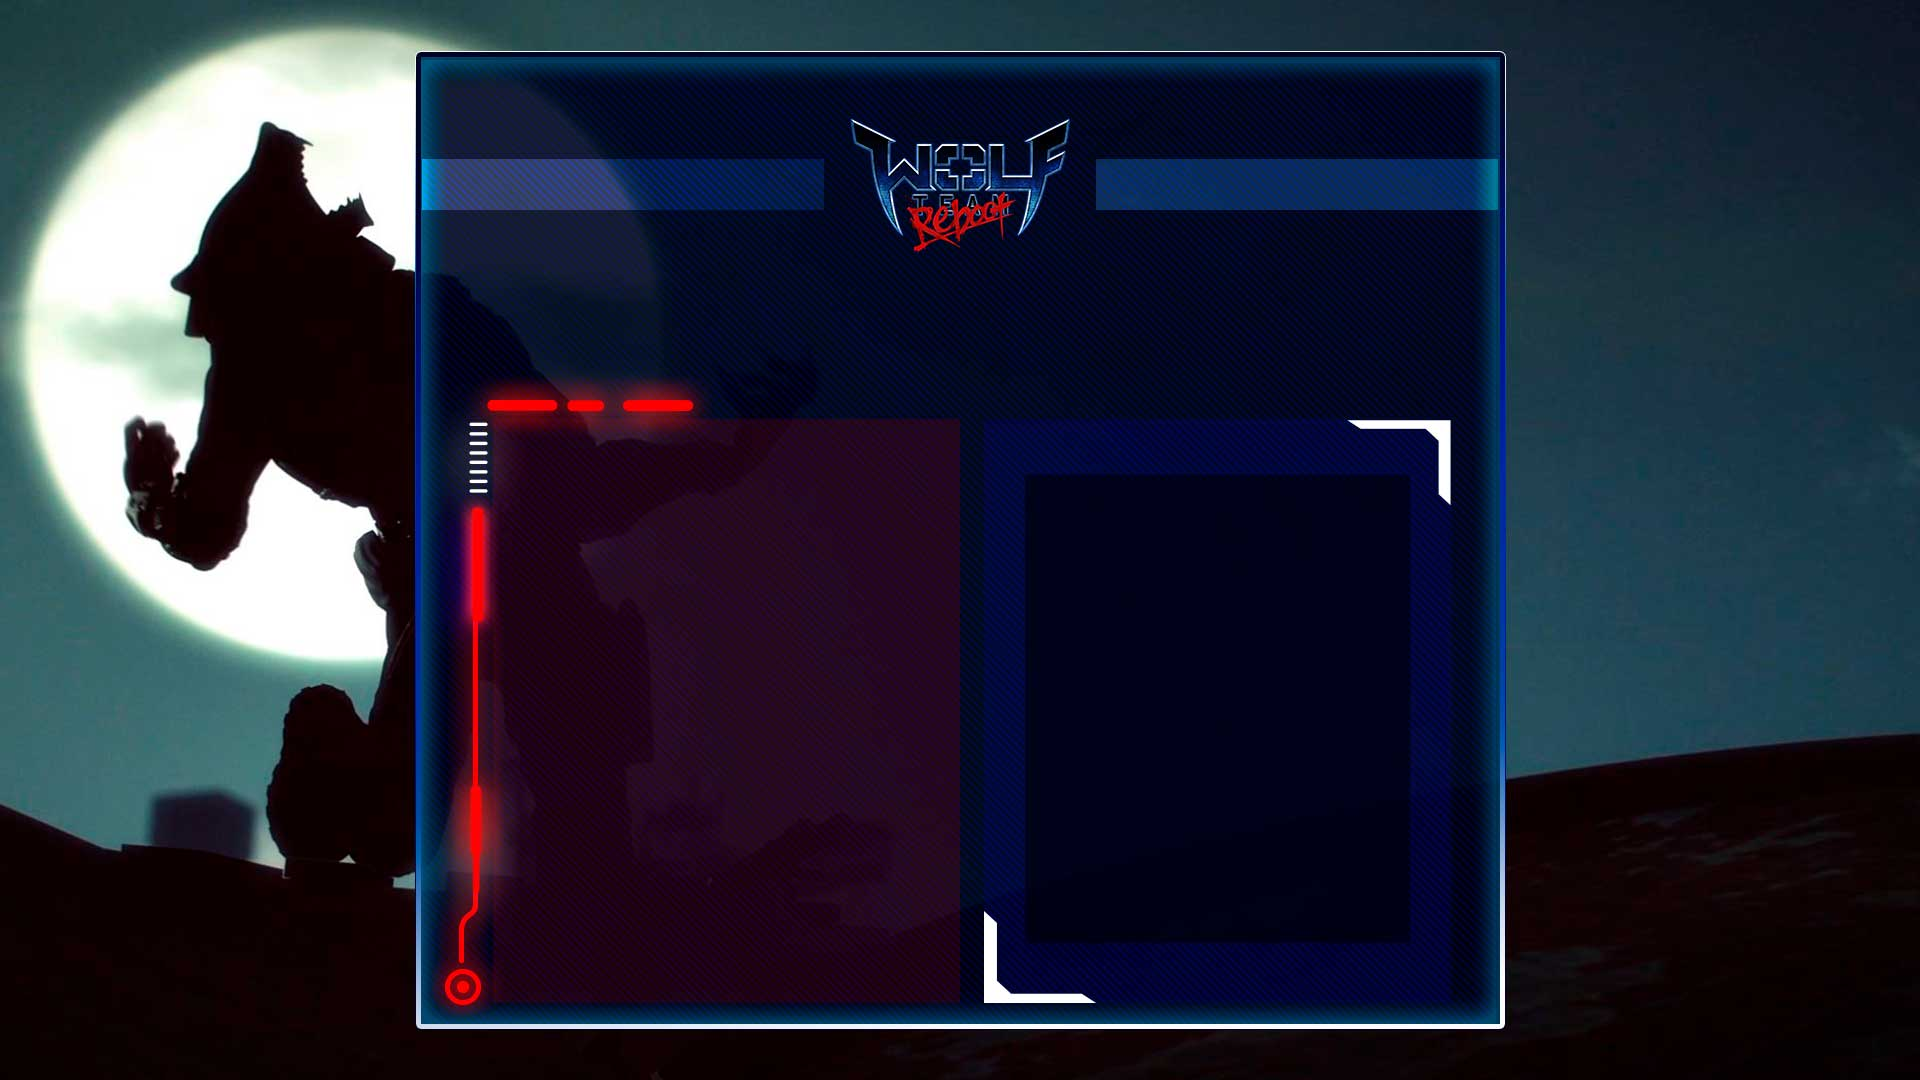
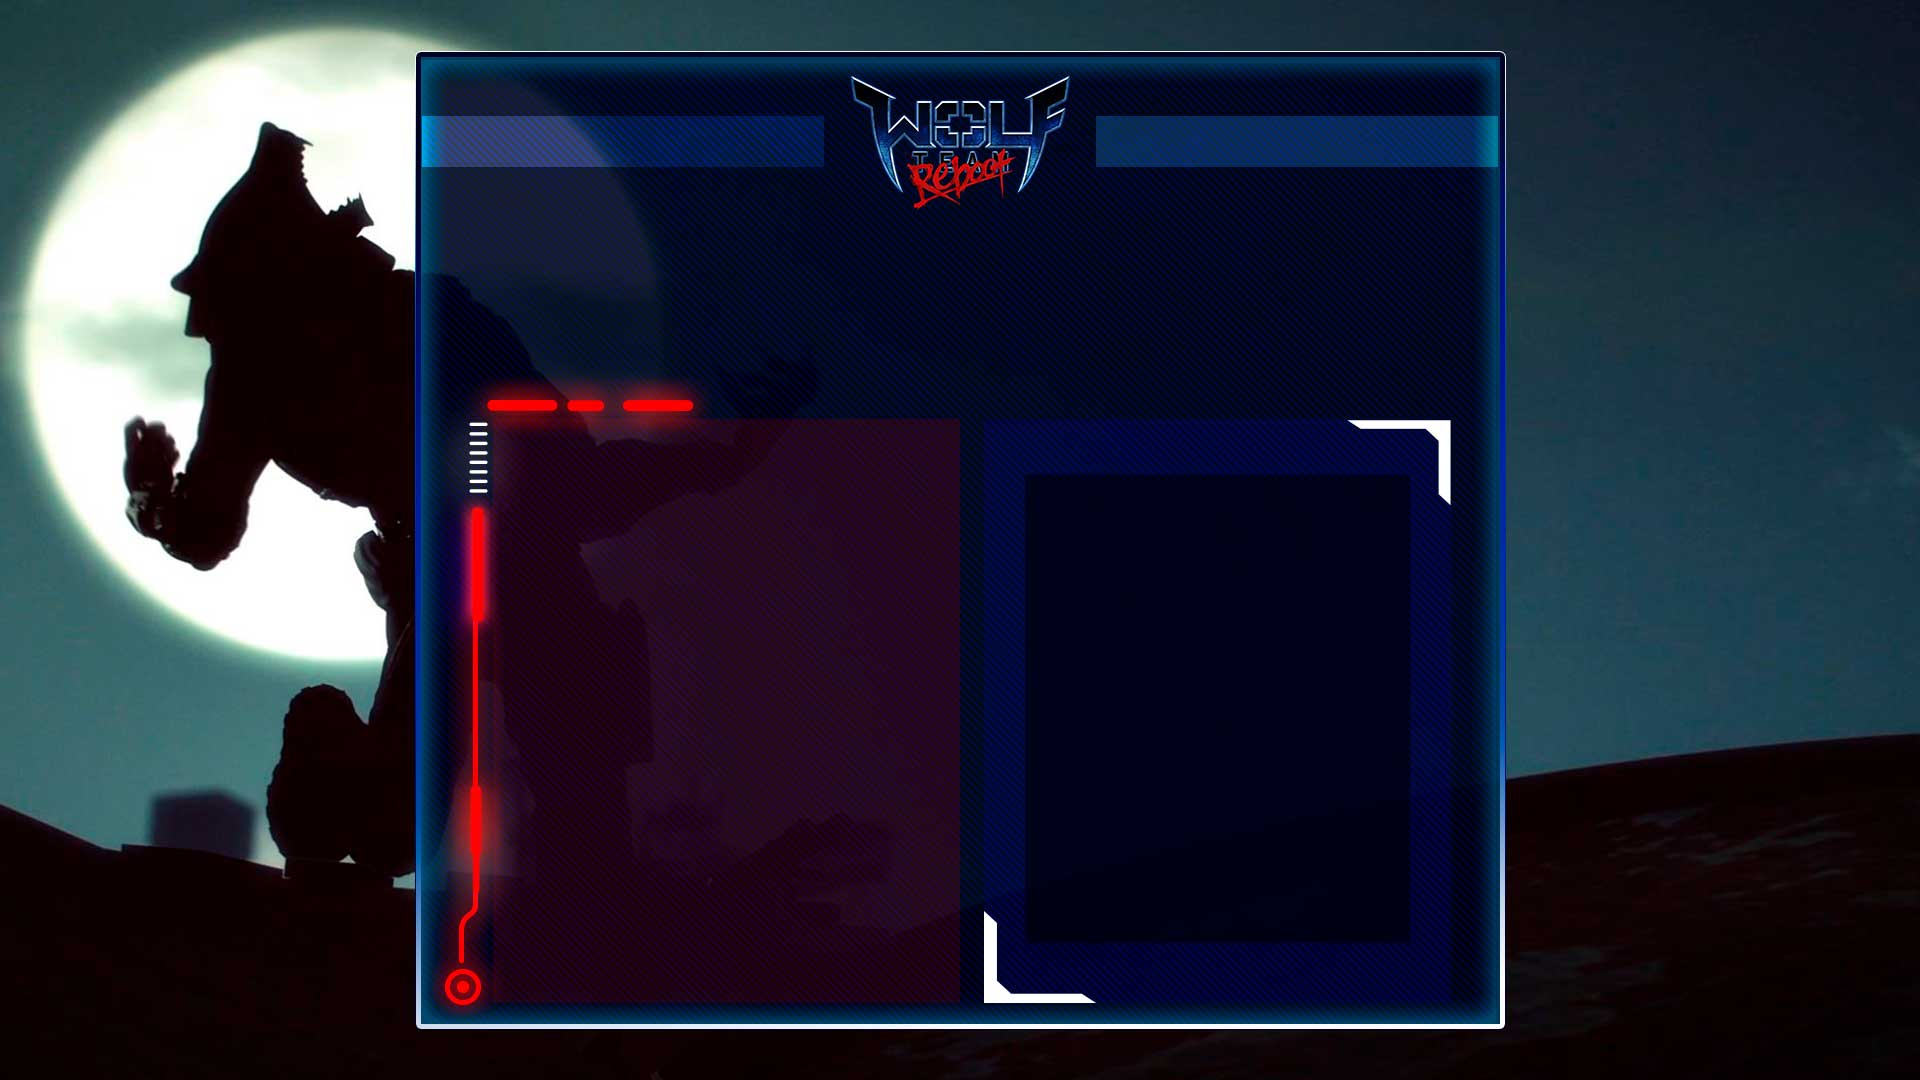
changes

Changed region(s): [[0.2188, 0.0611, 0.7812, 0.2444]]

diff --git a/css/style_v6.css b/css/style_v6.css
@@ -232,7 +232,13 @@ html.boxed body {
 
 /** @section Offsets */
 * + p {
-	margin-top: 21px;
+	margin-top: -21px;
+}
+
+@media(max-width:1199px){
+	* + p {
+		margin-top: 21px;
+	}
 }
 
 h1 + p,
@@ -14801,12 +14807,18 @@ div.single-product-rating .icon {
 @media(min-width:768px) and (max-width:1199px)
 {
 	.pers_tittle {
-		font-size: 37px !important;
+		font-size: 30px !important;
 	}
 
 	.pers_subtittle {
-		font-size: 16px !important;
+		font-size: 14px !important;
 		margin-top: -10px !important;
+	}
+
+	.pers_subtittle2 {
+		font-size: 17px !important;
+		margin-top: -2px !important;
+		color: #f0a400;
 	}
 
 	.dv__default1
@@ -14828,6 +14840,11 @@ div.single-product-rating .icon {
 	}
 
 	.pers_subtittle {
+		font-size: 20px !important;
+		margin-top: -10px !important;
+	}
+
+	.pers_subtittle2 {
 		font-size: 20px !important;
 		margin-top: -10px !important;
 	}
@@ -14856,7 +14873,7 @@ div.single-product-rating .icon {
 	.dv__default1
 	{
 		min-height: 150px !important;
-		top: 90px;
+		top: 65px;
 	}
 }
 
@@ -14980,7 +14997,16 @@ div.single-product-rating .icon {
 		font-family: Helvetica, Sans-Serif;
 		font-size: 20px !important;
 		font-weight: 100;
-		margin-top: -25px !important;
+		margin-top: -18px !important;
+	}
+
+	.pers_subtittle2 
+	{
+		font-family: Helvetica, Sans-Serif;
+		font-size: 22px !important;
+		font-weight: 100;
+		margin-top: 5px !important;
+		color: #f0a400;
 	}
 
 	.area__principal
@@ -15010,6 +15036,14 @@ div.single-product-rating .icon {
 }
 
 .pers_subtittle
+{
+	font-family: Helvetica, Sans-Serif;;
+	font-size: 24px;
+	font-weight: 100;
+	margin-top: -28px;
+}
+
+.pers_subtittle2
 {
 	font-family: Helvetica, Sans-Serif;;
 	font-size: 24px;
@@ -17557,31 +17591,43 @@ div.single-product-rating .icon {
 @media(min-width:100px) and (max-width:461px)
 {
 	.pers_tittle {
-		font-size: 24px !important;
+		font-size: 18px !important;
 	}
 
 	.pers_subtittle {
-		font-size: 13px !important;
+		font-size: 12px !important;
 		margin-top: -4px !important;
+	}
+
+	.pers_subtittle2 {
+		font-size: 16px !important;
+		margin-top: 10px !important;
+		color: #f0a400;
 	}
 }
 
 @media(min-width:462px) and (max-width:478px)
 {
 	.pers_tittle {
-		font-size: 25px !important;
+		font-size: 23px !important;
 	}
 
 	.pers_subtittle {
 		font-size: 14px !important;
 		margin-top: -4px !important;
 	}
+
+	.pers_subtittle2 {
+		font-size: 14px !important;
+		margin-top: 9px !important;
+		color: #f0a400;
+	}
 }
 
 @media(min-width:479px) and (max-width:492px)
 {
 	.pers_tittle {
-		font-size: 26px !important;
+		font-size: 23px !important;
 		margin-top: 13px !important;
 	}
 
@@ -17589,34 +17635,53 @@ div.single-product-rating .icon {
 		font-size: 14px !important;
 		margin-top: -4px !important;
 	}
+
+	.pers_subtittle2 {
+		font-size: 14px !important;
+		margin-top: 9px !important;
+		color: #f0a400;
+	}
 }
 
 @media(min-width:493px) and (max-width:528px)
 {
 	.pers_tittle {
-		font-size: 28px !important;
-		margin-top: 20px !important;
+		font-size: 23px !important;
+		margin-top: 27px !important;
 		line-height: 1.2em;
 	}
 
 	.pers_subtittle {
-		font-size: 17px !important;
+		font-size: 14px !important;
 		margin-top: -4px !important;
+	}
+
+	.pers_subtittle2 {
+		font-size: 17px !important;
+		margin-top: 9px !important;
+		color: #f0a400;
 	}
 }
 
 @media(min-width:529px) and (max-width:767px)
 {
 	.pers_tittle {
-		font-size: 31px !important;
-		margin-top: 20px !important;
+		font-size: 27px !important;
+		margin-top: 33px !important;
 		line-height: 1.2em;
 	}
 
 	.pers_subtittle {
-		font-size: 19px !important;
-		margin-top: 2px !important;
+		font-size: 16px !important;
+		margin-top: 6px !important;
 		line-height: 1.2em;
+	}
+
+	.pers_subtittle2 {
+		font-size: 19px !important;
+		margin-top: 14px !important;
+		line-height: 1.2em;
+		color: #f0a400;
 	}
 }
 /**/

diff --git a/index.html b/index.html
@@ -36,6 +36,9 @@
                 <div class="col-md-12 dv__default1"><br>
                   <p class="pers_tittle">Wolfteam: Reboot on Steam</p>
                   <p class="pers_subtittle">Thanks for your continued interest and love for our game: Wolfteam</p>
+                  <!-- <br> -->
+                  <p class="pers_subtittle2">OPEN DATE : 7th DECEMBER</p>
+                  <br>
                 </div>
 
                 
@@ -45,6 +48,7 @@
                   <div style="clear: both;"></div>
                   
                   <div class="col-xl-5 col-lg-12" id="dv__5">
+                   
                     <p class="desc__txt">You can enjoy the Game "Wolfteam" on Steam which was provided by Aeria Games previously.</p>
                     <p class="desc__txt">If you link the Steam account on the right and enter the token provided by Aeria Games, the below information will be transferred. (You need to reset yout "CallSign")</p>
                     <p class="desc__txt">You can transfer your previous data until 27.01.2023</p>
@@ -60,7 +64,8 @@
                     <p class="desc__txt">- WC</p>
                     <p class="desc__txt">- Cash</p>
                     <p class="desc__txt">- Pride</p>
-                    <p class="desc__txt">The Wolfteam: Reboot on Steam will open by mid of November 2022. We will update the exact date once it is ready</p>
+                    <!-- <p class="desc__txt">The Wolfteam: Reboot on Steam will open by mid of November 2022. We will update the exact date once it is ready</p> -->
+                    <br><br>
                   </div>
               
                   <div class="col-xl-4 col-lg-12 dv__rigth">
